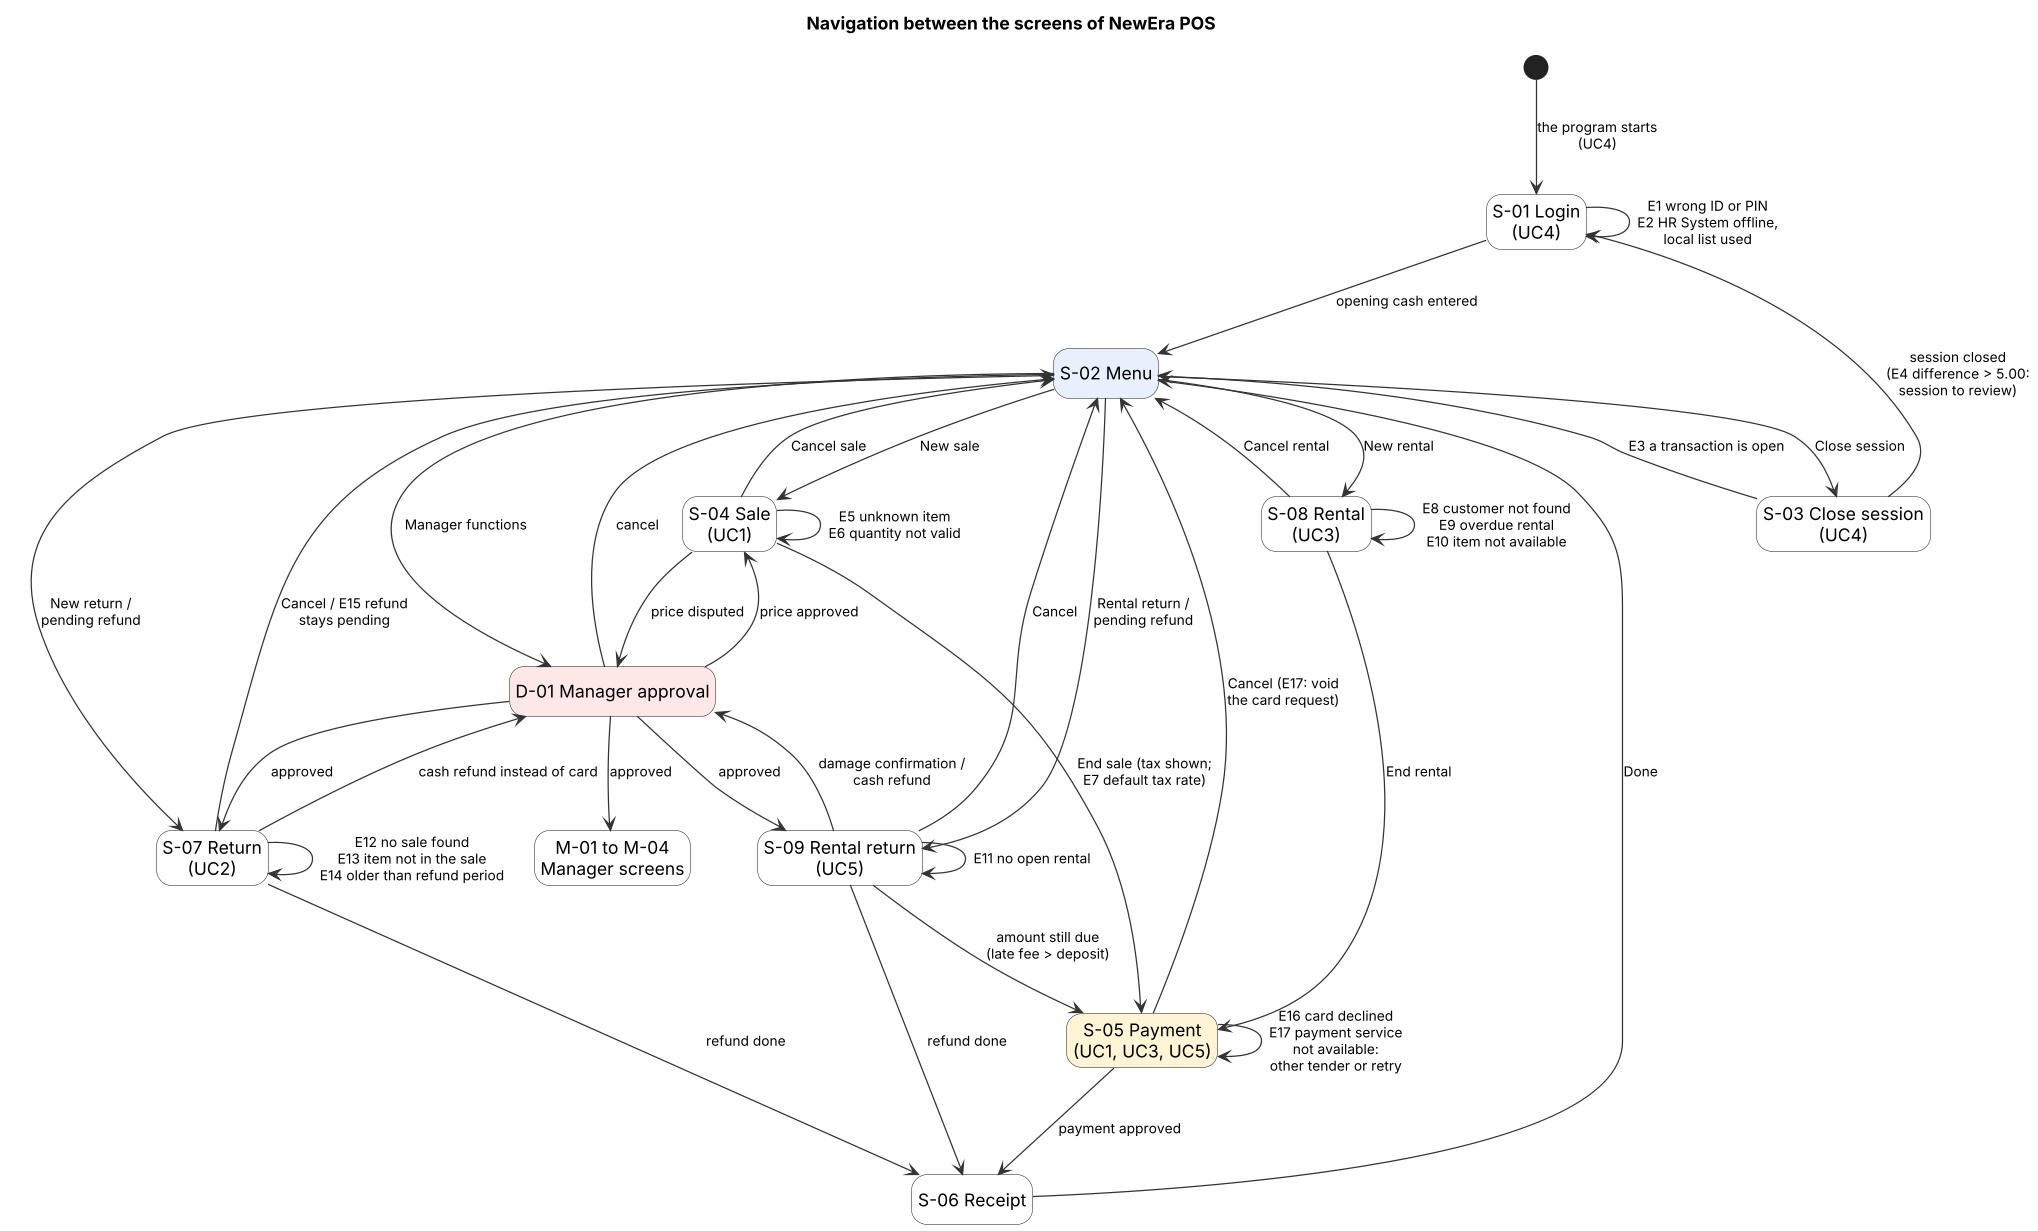
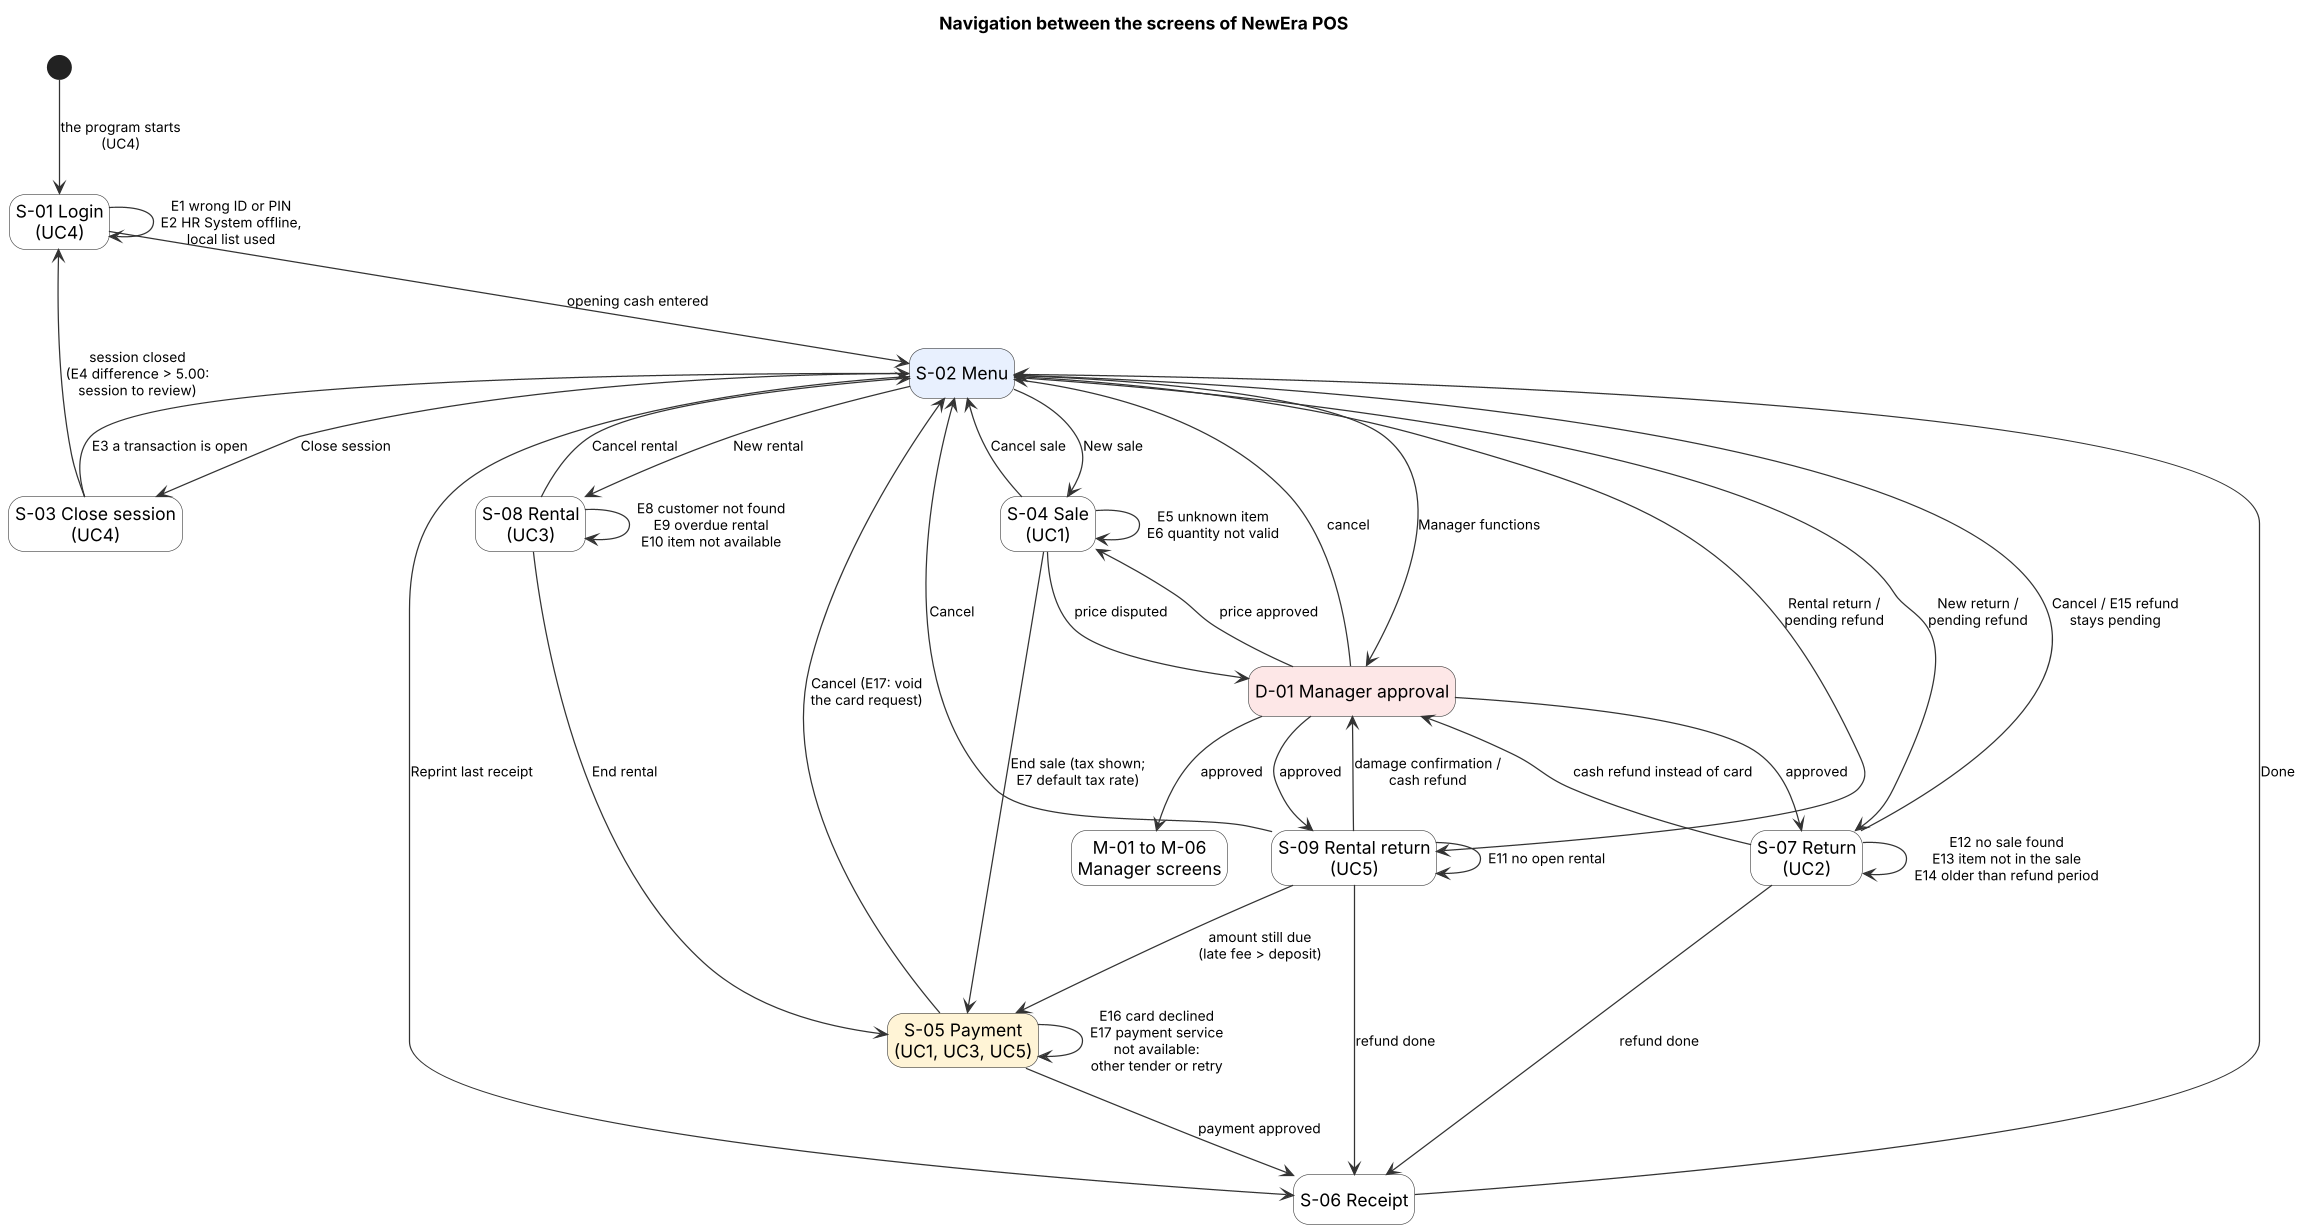
W10 - UI design; answer review #57, S-01 to S-06 rows, D-01, M-03 split into M-03, M-05, M-06

diff --git a/docs/design/ui_design.md b/docs/design/ui_design.md
@@ -30,12 +30,12 @@ This document describes the user interface of NewEra POS: the screens, how the u
 
 | ID   | Screen            | Use case                               | System operations (system_interfaces.md §3)                                                                                                                                                                                                                                                                    | Controller                                                     | Prototype                                          |
 | ---- | ----------------- | -------------------------------------- | -------------------------------------------------------------------------------------------------------------------------------------------------------------------------------------------------------------------------------------------------------------------------------------------------------------- | -------------------------------------------------------------- | -------------------------------------------------- |
-| S-01 | **Login**         | UC4 Start Up                           | `startUp()`, `logIn(employeeID, pin)`, `enterOpeningCash(amount)`                                                                                                                                                                                                                                              | `SessionController`                                            | `index.html`                                       |
-| S-02 | **Menu**          | UC4 (end), entry to UC1, UC2, UC3, UC5 | None. It shows the cashier, the register ID and the status of the external systems (see open point 1)                                                                                                                                                                                                          | –                                                              | `menu.html`                                        |
+| S-01 | **Login** | UC4 Start Up | `logIn(employeeID, pin)`, `enterOpeningCash(amount)`. S-01 does not send `startUp()`: the POS program sends it once when it starts (system_interfaces.md §3.1) and S-01 shows its result: the login form, the error of UC4 2a (catalog or stored data not available: no login form, call the store manager) or the warning of UC4 6c (HR System not available: the saved employee list is used) | `SessionController` | `index.html` |
+| S-02 | **Menu** | UC4 (end), entry to UC1, UC2, UC3, UC5 | `getSystemStatus()` and `listPendingRefunds()` (system_interfaces.md §3.8). It shows the cashier, the register ID and the status of the external systems. Entries: _New sale_ (S-04), _New return_ (S-07), _New rental_ (S-08), _Rental return_ (S-09), _Pending refunds_ (S-07 or S-09), _Reprint last receipt_ (S-06), _Close session_ (S-03), _Manager functions_ (D-01, then M-01 to M-06) | – | `menu.html` |
 | S-03 | **Close session** | UC4 close session                      | `closeSession()`, `enterClosingCash(amount)`, `confirmCloseSession()`                                                                                                                                                                                                                                          | `SessionController`                                            | new                                                |
 | S-04 | **Sale**          | UC1 Process Sale                       | `makeNewSale()`, `enterItem(itemID, quantity)`, `removeItem(lineNumber)`, `endSale()`, `cancelSale()`; price change: `overridePrice(...)` with the dialog D-01                                                                                                                                                 | `SaleController`                                               | `sale.html`                                        |
 | S-05 | **Payment**       | UC1, UC3 and UC5 (amount still due)    | `makePayment(amount, tenderType)` for a sale, a rental or a rental return                                                                                                                                                                                                                                      | `SaleController`, `RentalController`, `RentalReturnController` | `payment.html`                                     |
-| S-06 | **Receipt**       | UC1, UC2, UC3, UC5                     | `reprintReceipt()`. The data of the receipt come from the answers of `makePayment`, `confirmReturn` and `confirmRentalReturn`                                                                                                                                                                                  | `SaleController`                                               | `receipt.html`                                     |
+| S-06 | **Receipt** | UC1, UC2, UC3, UC5 | `reprintReceipt()`. The data of the receipt come from the answers of `makePayment`, `confirmReturn` and `confirmRentalReturn`. S-06 opens after a payment or a refund, and from the S-02 entry _Reprint last receipt_ (FR-17) | The controller of the use case that made the receipt: `SaleController`, `ReturnController`, `RentalController` or `RentalReturnController` | `receipt.html` |
 | S-07 | **Return**        | UC2 Handle Returns                     | `makeNewReturn()`, `findSale(receiptNumber)`, `enterReturnItem(itemID, quantity, condition)`, `removeReturnItem(lineNumber)`, `confirmReturn()`, `checkRefundStatus()`, `cancelReturn()`; cash refund: `approveCashRefund(...)` with D-01                                                                      | `ReturnController`                                             | `return.html` (without the condition of the item)  |
 | S-08 | **Rental**        | UC3 Process Rental                     | `makeNewRental()`, `enterCustomerID(customerID)`, `registerCustomer()`, `enterRentalItem(serialNumber)`, `selectRentalPeriod(days)`, `endRental()`, `cancelRental()`                                                                                                                                           | `RentalController`                                             | `rental.html`                                      |
 | S-09 | **Rental return** | UC5 Return Rental                      | `makeNewRentalReturn()`, `findRental(code)`, `findRentalsOfCustomer(customerID)`, `selectRental(rentalID)`, `recordCondition(condition, damageNote)`, `confirmRentalReturn()`, `checkRefundStatus()`, `cancelRentalReturn()`; damage and cash refund: `confirmDamage(...)`, `approveCashRefund(...)` with D-01 | `RentalReturnController`                                       | `return-rental.html` (without damage confirmation) |
@@ -44,7 +44,7 @@ This document describes the user interface of NewEra POS: the screens, how the u
 
 | ID   | Dialog                                                               | Used by                                                                                                      | System operations                                                                                                  | Controller                                 | Prototype |
 | ---- | -------------------------------------------------------------------- | ------------------------------------------------------------------------------------------------------------ | ------------------------------------------------------------------------------------------------------------------ | ------------------------------------------ | --------- |
-| D-01 | **Manager approval** (employee ID, PIN and, when needed, the reason) | S-04 price change (UC1 4d), S-07 and S-09 cash refund (UC2 9b2a, 9c; UC5), S-09 damage confirmation (UC5 6a) | Carries `managerID`, `pin` and `reason` of `overridePrice(...)`, `approveCashRefund(...)` and `confirmDamage(...)` | The controller of the screen that opens it | new       |
+| D-01 | **Manager approval** (employee ID, PIN and, when needed, the reason) | S-04 price change (UC1 4d), S-07 and S-09 cash refund (UC2 9b2a, 9c; UC5), S-09 damage confirmation (UC5 6a) | Always carries `managerID` and `pin` of `overridePrice(...)`, `approveCashRefund(...)` and `confirmDamage(...)`; it carries `reason` only for `approveCashRefund(...)` | The controller of the screen that opens it | new |
 
 ### 1.4 Store manager screens
 
@@ -54,20 +54,24 @@ These are the "Manager screens" of the logical view. Each operation carries the 
 | ---- | ---------------------------------------------------- | -------------------------- | ----------------------------------------------------------------------------------- | ------------------- | --------- |
 | M-01 | **Reorder and stock-check list**                     | FR-68, BR-09               | Reorder and stock-check list (`GET /api/products/flagged`)                          | `ManagerController` | new       |
 | M-02 | **Sessions to review**                               | FR-74, FR-75, BR-17        | `listSessionsToReview()`, `confirmSessionReview(sessionID, managerID, pin, reason)` | `ManagerController` | new       |
-| M-03 | **Settings** (default tax rate, disable an employee) | FR-69, FR-70, IR-05, IR-09 | Change the default tax rate, disable an employee in the local list                  | `ManagerController` | new       |
+| M-03 | **Default tax rate** | FR-69, IR-05 | `changeDefaultTaxRate(rate, managerID, pin)` | `ManagerController` | new |
 | M-04 | **Catalog import**                                   | IR-17                      | Import the catalog (file and manager)                                               | `ManagerController` | new       |
+| M-05 | **Local employees** | FR-70, IR-09 | `disableEmployee(employeeID, managerID, pin)` | `ManagerController` | new |
+| M-06 | **Accounting queue** | FR-76 | `getAccountingQueueStatus(managerID, pin)` | `ManagerController` | new |
 
 ### 1.5 Summary
 
-- **9 cashier screens** (S-01 to S-09), **1 dialog** (D-01) and **4 store manager screens** (M-01 to M-04).
+- **9 cashier screens** (S-01 to S-09), **1 dialog** (D-01) and **6 store manager screens** (M-01 to M-06).
 - Every system operation of the use cases UC1 to UC5 is used by exactly one screen, except `makePayment`, which the screen S-05 sends for three controllers, and `checkRefundStatus()` and `approveCashRefund(...)`, which UC2 and UC5 share.
-- The prototype shows 8 of the 14 screens and dialogs. It does not show S-03, D-01, M-01 to M-04, and it does not show the condition of a returned item (S-07) nor the damage confirmation (S-09). The prototype stays a throw-away prototype (process model).
+- The prototype shows 8 of the 16 screens and dialogs. It does not show S-03, D-01, M-01 to M-06, and it does not show the condition of a returned item (S-07) nor the damage confirmation (S-09). The prototype stays a throw-away prototype (process model).
 
 ### 1.6 Open points
 
-1. **Status of the external systems (NFR-15).** The menu S-02 and the warnings of S-04 and S-05 show whether each external system is available and whether the default tax rate is used. No operation of system_interfaces.md §3 returns this status. To decide with Alfonso (screen ↔ API table).
-2. **How a store manager opens M-01 to M-04.** The system interfaces have no manager session. Proposal: the menu S-02 has an entry _Manager functions_ that asks for the manager ID and the PIN, and each screen M-xx repeats them with its action (BR-04). To confirm.
-3. **Pending card refund.** `checkRefundStatus()` needs the ID of the return or rental return. A refund that stays _pending_ after the cashier has left the screen has no list to find it again. To decide with Alfonso.
+1. ~~**Status of the external systems (NFR-15).**~~ Closed (W10): `getSystemStatus()` (system_interfaces.md §3.8), sent by S-02.
+2. ~~**How a store manager opens M-01 to M-06.**~~ Closed (W10): the menu S-02 has the entry _Manager functions_; D-01 asks for the manager ID and the PIN, and each screen M-xx repeats them with its action (BR-04; system_interfaces.md §3.6).
+3. **Pending card refund.** The list exists (`listPendingRefunds()`, §3.8) and S-02 has the entry _Pending refunds_. The list must return the ID and the kind of each return (review #60), and S-07 and S-09 need a mode that opens a saved return. To decide with Alfonso.
+4. **Reprint last receipt (review #57).** `reprintReceipt()` takes a receipt number (system_interfaces.md §3.2), but the entry of S-02 has no receipt number. The API needs a way to give the last receipt of the register (Alfonso).
+5. **Changes for the other sections (review #57).** M-03 is split into M-03, M-05 and M-06: the class diagram and the count of classes of section 4 (Josué) and the screen table of system_interfaces.md §3.9 (Alfonso) must follow. D-01 carries `reason` only for `approveCashRefund(...)`: section 4.1 repeats the old text (Josué).
 
 ## 2. Navigation between the screens
 
@@ -86,7 +90,7 @@ Source: [`assets/ui_navigation.puml`](../../assets/ui_navigation.puml).
 | UC2 Handle returns             | S-02 → S-07 → (D-01) → S-06 → S-02                                               | UC2                            |
 | UC3 Process rental             | S-02 → S-08 → S-05 → S-06 → S-02                                                 | UC3                            |
 | UC5 Return rental              | S-02 → S-09 → (D-01) → S-06 → S-02; with an amount still due: S-09 → S-05 → S-06 | UC5                            |
-| Manager functions              | S-02 → D-01 → M-01 to M-04 → S-02                                                | FR-68 to FR-70, FR-74 to FR-77 |
+| Manager functions              | S-02 → D-01 → M-01 to M-06 → S-02                                                | FR-68 to FR-70, FR-74 to FR-76 |
 
 The cashier can cancel from S-04, S-05, S-07, S-08 and S-09 at any time before the payment or the refund is completed; the cancel always leads back to S-02 and the cashier session stays open. A pending card refund (UC2 and UC5, ext. 9b2b) is found again from S-02 (open point 1).
 
